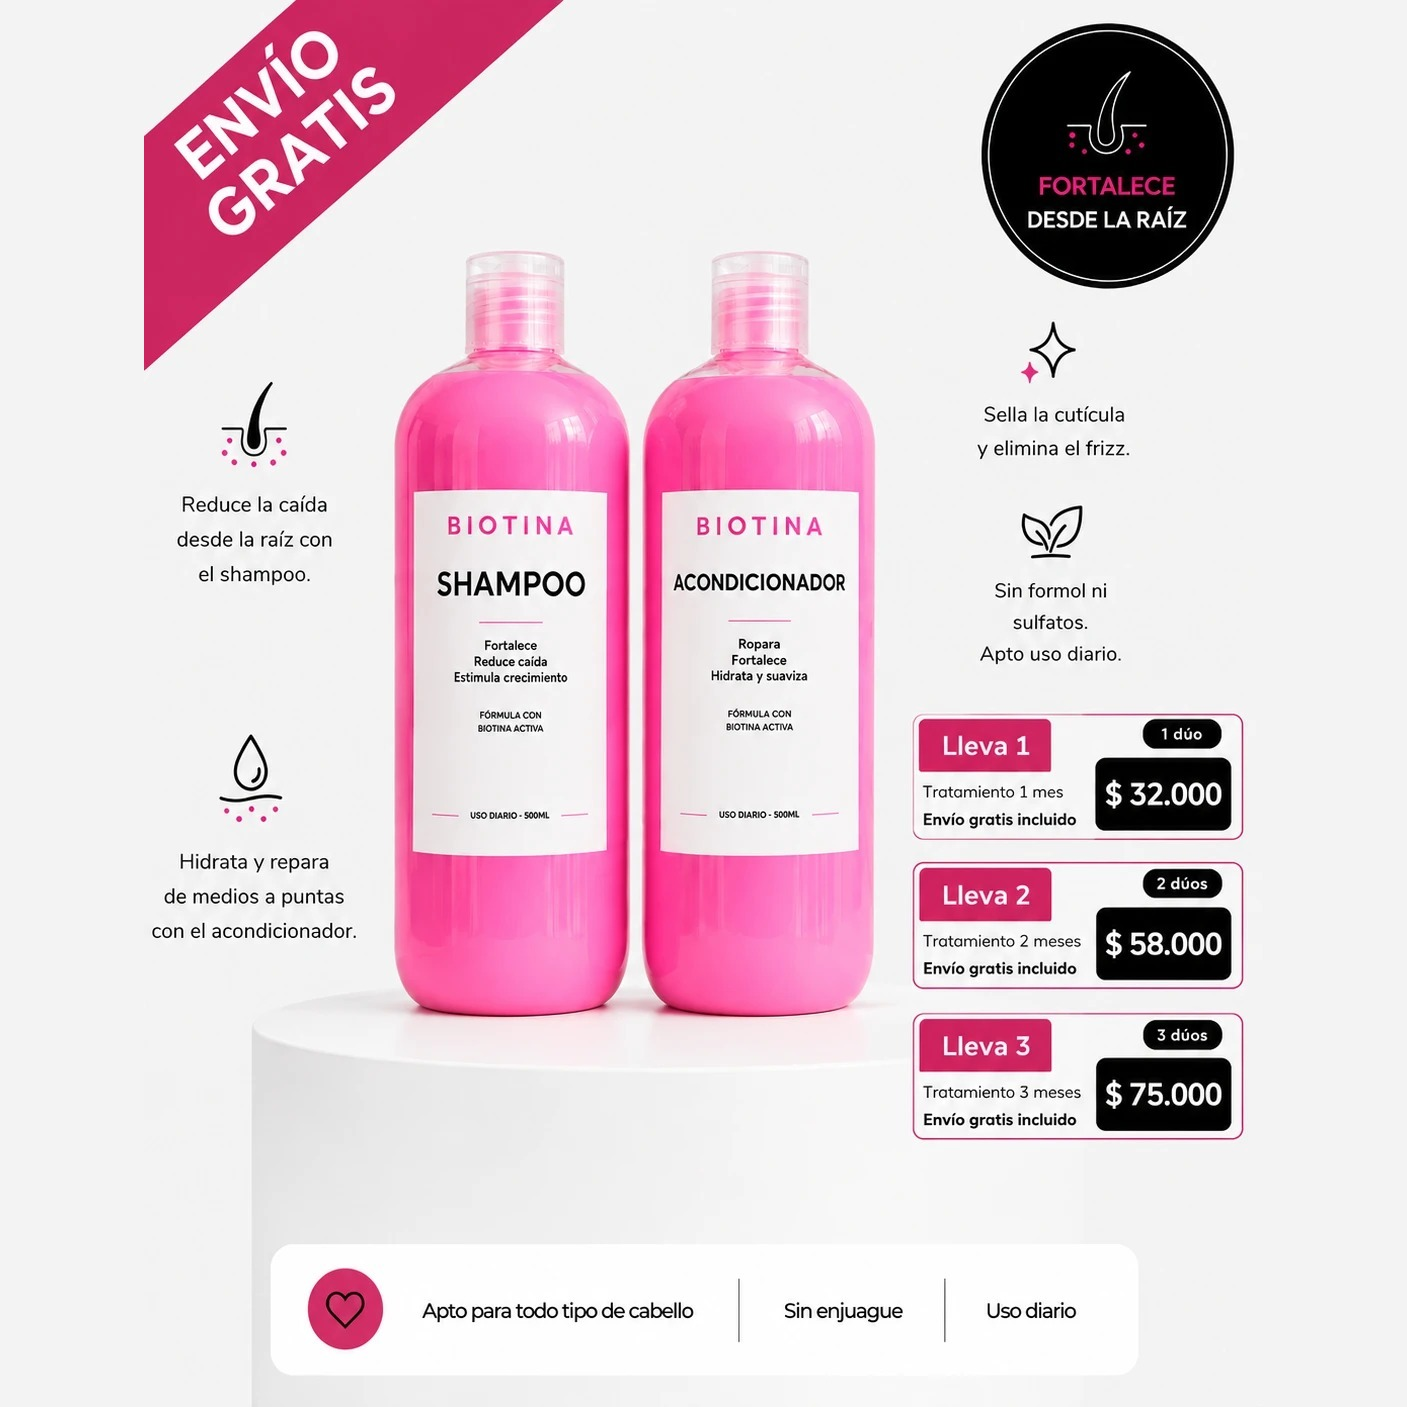
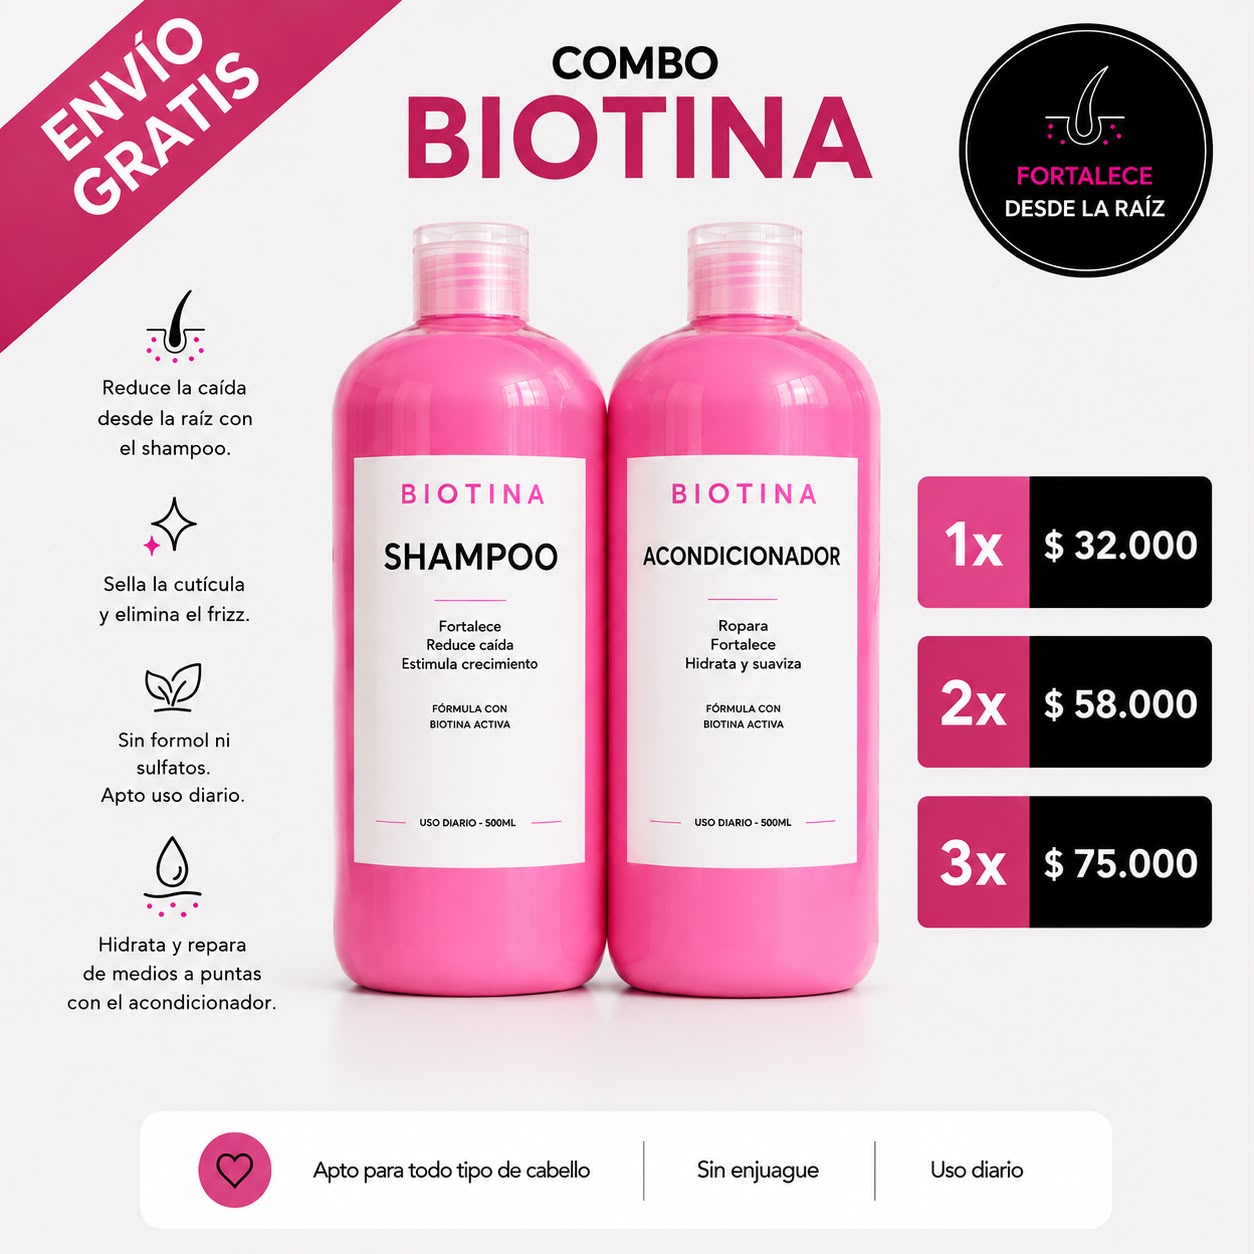
Actualizar imagen del Dúo Shampoo + Acondicionador (producto y home)
Imagen nueva perfectamente cuadrada (1254x1254), con los precios reales del
producto (1x \$32.000, 2x \$58.000, 3x \$75.000). Se reemplaza tanto en la
página de producto como en la tarjeta de la home, y se ajusta el
aspect-ratio del contenedor en mobile (estaba en 1180/1333, pensado para la
imagen vertical anterior) a 1/1 para que quede exacta sin espacios vacíos.

Claude-Session: https://claude.ai/code/session_01LadyPi9ezZiBcKLRd58wbH

diff --git a/shampoo-crema/index.html b/shampoo-crema/index.html
@@ -875,7 +875,7 @@
  gap: 20px;
  }
  .hero-img {
- aspect-ratio: 1180/1333;
+ aspect-ratio: 1/1;
  border-radius: 16px;
  box-shadow: none;
  background: #f8f8f6;
